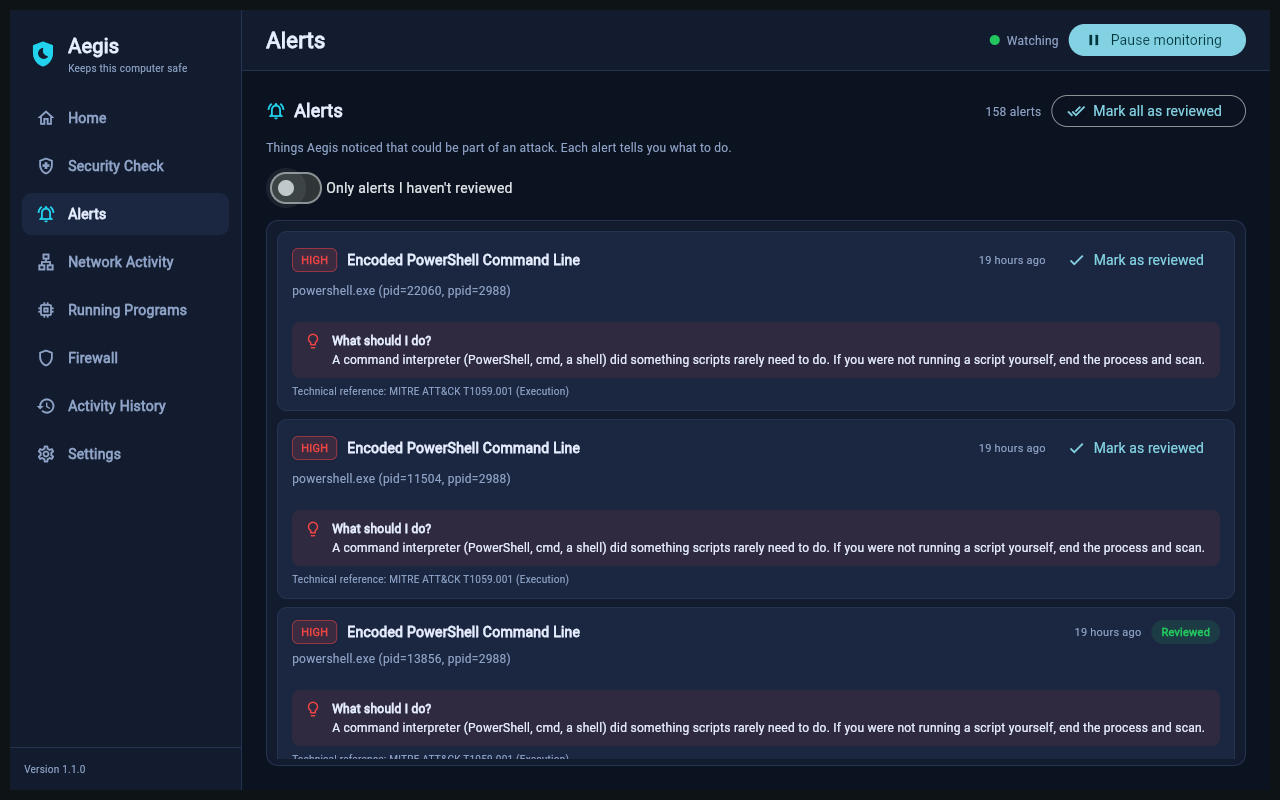
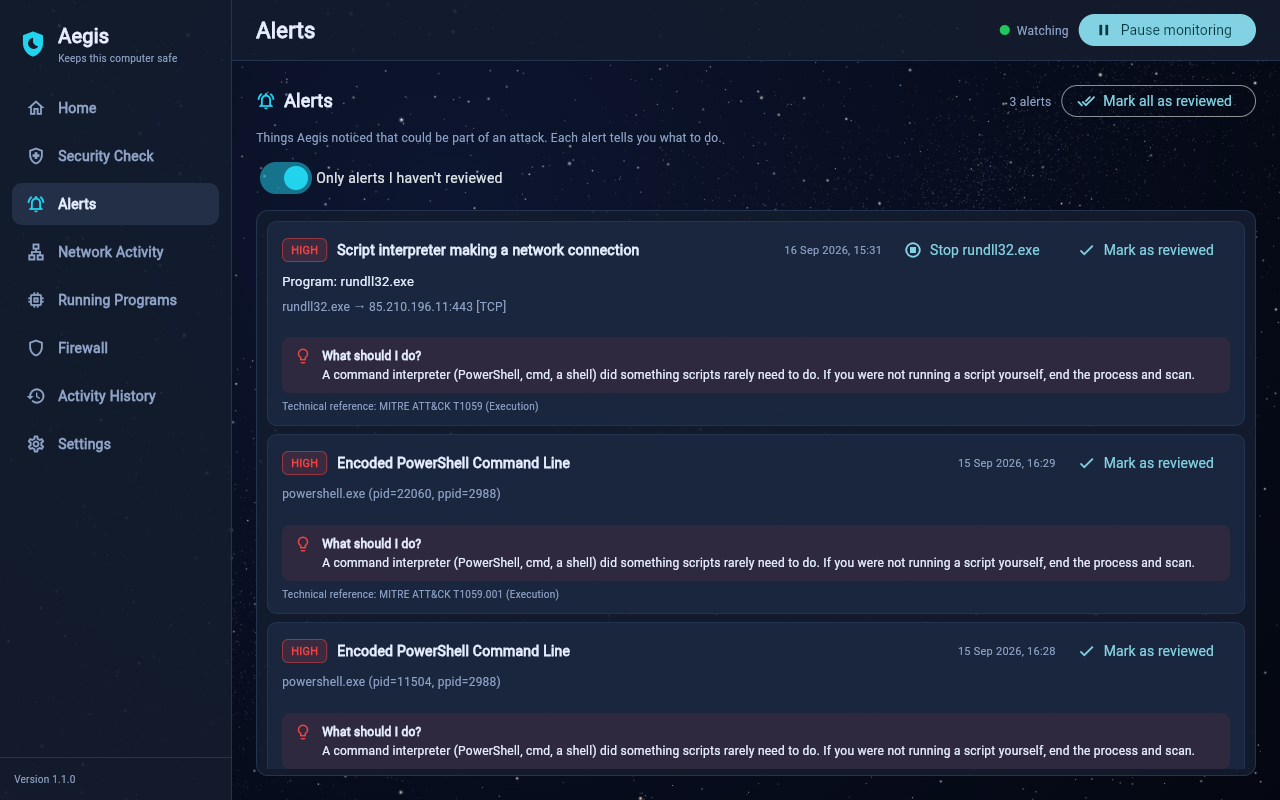
Refresh the screenshots, and grey out Stop for system processes
The README screenshots now show the current app: the starfield backdrop,
the new security checks with their one-click fixes and fix history, and
the running-programs list. Stop is disabled, with a tooltip saying why,
for processes the operating system needs, so the button never leads to a
refusal.

diff --git a/aegis/ui/views/processes_view.py b/aegis/ui/views/processes_view.py
@@ -4,6 +4,7 @@ from __future__ import annotations
 import flet as ft
 
 from aegis.collectors.processes import snapshot
+from aegis.response.actions import is_protected_process
 from aegis.ui import components as c
 from aegis.ui import theme
 from aegis.ui.plain import plural
@@ -69,6 +70,7 @@ class ProcessesView(BaseView):
 
     def _row(self, p) -> ft.Control:
         sus = p.is_suspicious
+        protected = is_protected_process(p.name)
         pills = [c.pill(f"{p.memory_mb:.0f} MB memory", theme.TEXT_MUTED)]
         if p.num_connections:
             pills.insert(0, c.pill(plural(p.num_connections, "network connection"), theme.INFO))
@@ -86,9 +88,11 @@ class ProcessesView(BaseView):
                             color=theme.WARN) if sus else ft.Container(height=0),
                 ], spacing=1, expand=True, tight=True),
                 *pills,
-                ft.TextButton("Stop", icon=ft.Icons.STOP_CIRCLE_OUTLINED,
-                              tooltip=f"Stop {p.name} (process {p.pid})",
-                              on_click=lambda e, proc=p: self._confirm_stop(proc)),
+                ft.TextButton(
+                    "Stop", icon=ft.Icons.STOP_CIRCLE_OUTLINED, disabled=protected,
+                    tooltip=(f"{p.name} is part of the operating system and cannot be stopped"
+                             if protected else f"Stop {p.name} (process {p.pid})"),
+                    on_click=lambda e, proc=p: self._confirm_stop(proc)),
             ], spacing=12),
             padding=ft.Padding.symmetric(horizontal=14, vertical=8),
             bgcolor=ft.Colors.with_opacity(0.08, theme.WARN) if sus else theme.SURFACE_ALT,

diff --git a/README.md b/README.md
@@ -21,9 +21,13 @@
 |---|
 | ![Aegis home screen showing a status banner, security score, alert counts and charts](docs/screenshots/home.png) |
 
-| Security check: what to fix, in plain language | Alerts: what happened and what to do |
+| Security check: what to fix, and a button that fixes it | Alerts: what happened and what to do |
 |---|---|
-| ![Security check results scored 100 out of 100, each check listed with its outcome](docs/screenshots/security-check.png) | ![Alerts list, each alert with a "What should I do?" box](docs/screenshots/alerts.png) |
+| ![Security check scored 73 out of 100, each weakness listed with how to fix it and a one-click fix button, above the history of fixes already applied](docs/screenshots/security-check.png) | ![Alerts list, each alert with a "What should I do?" box](docs/screenshots/alerts.png) |
+
+| Running programs: everything using this computer, with a Stop button |
+|---|
+| ![The running programs list, each with its location, network connections, memory use and a Stop button](docs/screenshots/running-programs.png) |
 
 ## Install on Windows (no Python needed)
 
